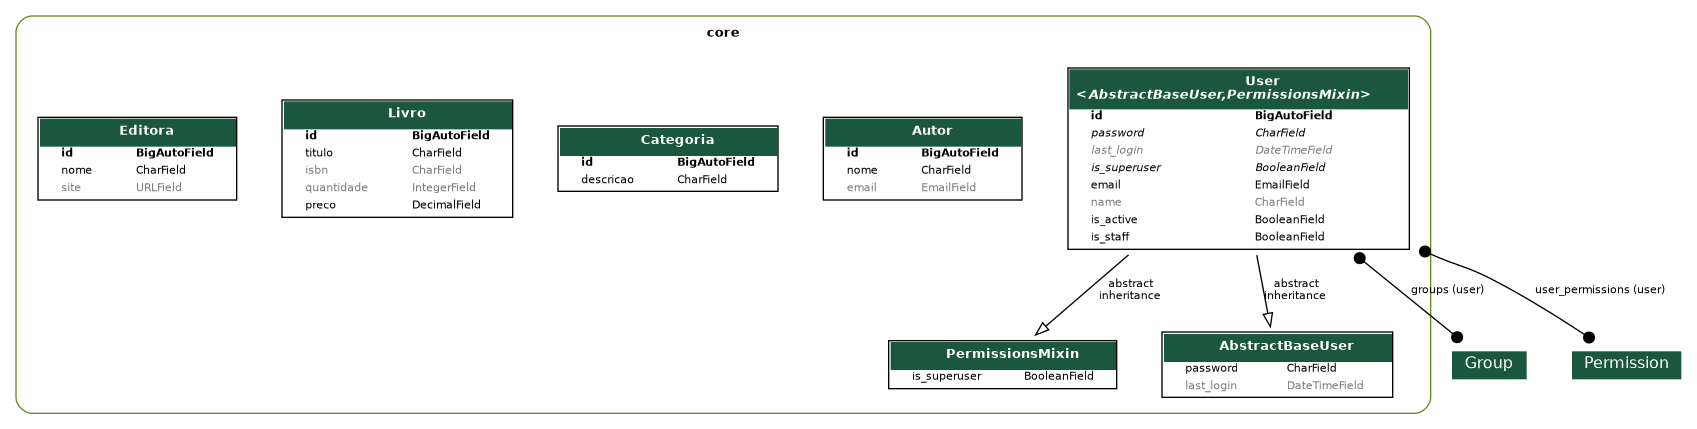
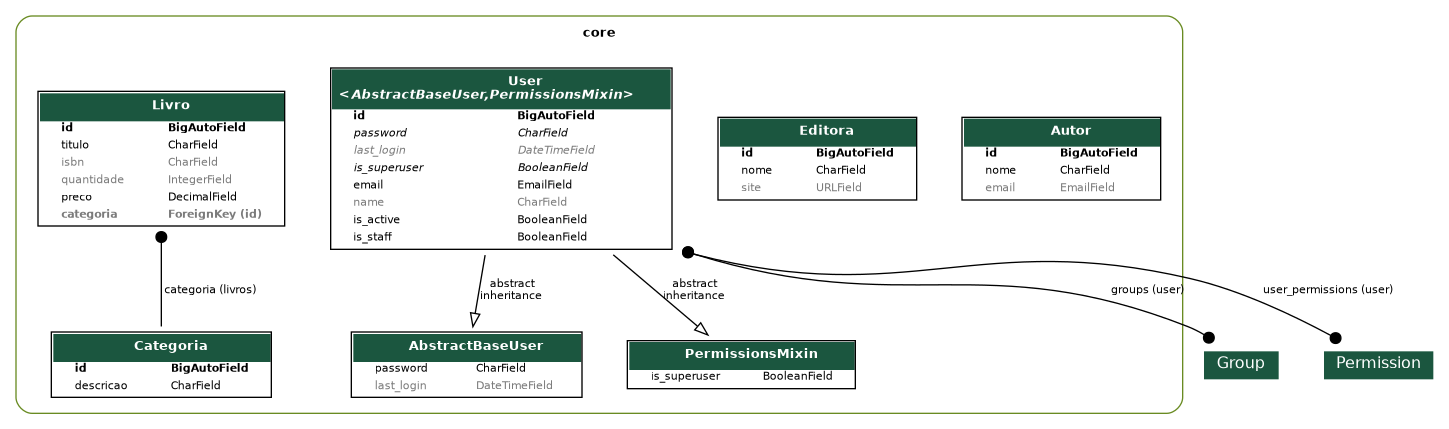
feat: criaçãos do relacionamento entre Livro e Categoria

diff --git a/core/models/livro.py b/core/models/livro.py
@@ -1,4 +1,5 @@
 from django.db import models
+from .categoria import Categoria
 
 
 class Livro(models.Model):
@@ -6,6 +7,7 @@ class Livro(models.Model):
     isbn = models.CharField(max_length=32, null=True, blank=True)
     quantidade = models.IntegerField(default=0, null=True, blank=True)
     preco = models.DecimalField(max_digits=7, decimal_places=2, default=0)
+    categoria = models.ForeignKey(Categoria, on_delete=models.PROTECT, related_name='livros', null=True, blank=True)
 
     def __str__(self):
         return f'({self.id}) {self.titulo} ({self.quantidade} unidades)'

diff --git a/core/migrations/0007_livro_categoria.py b/core/migrations/0007_livro_categoria.py
@@ -1,0 +1,19 @@
+# Generated by Django 5.2.12 on 2026-03-17 12:21
+
+import django.db.models.deletion
+from django.db import migrations, models
+
+
+class Migration(migrations.Migration):
+
+    dependencies = [
+        ('core', '0006_autor_categoria_editora_livro'),
+    ]
+
+    operations = [
+        migrations.AddField(
+            model_name='livro',
+            name='categoria',
+            field=models.ForeignKey(blank=True, null=True, on_delete=django.db.models.deletion.PROTECT, related_name='livros', to='core.categoria'),
+        ),
+    ]
